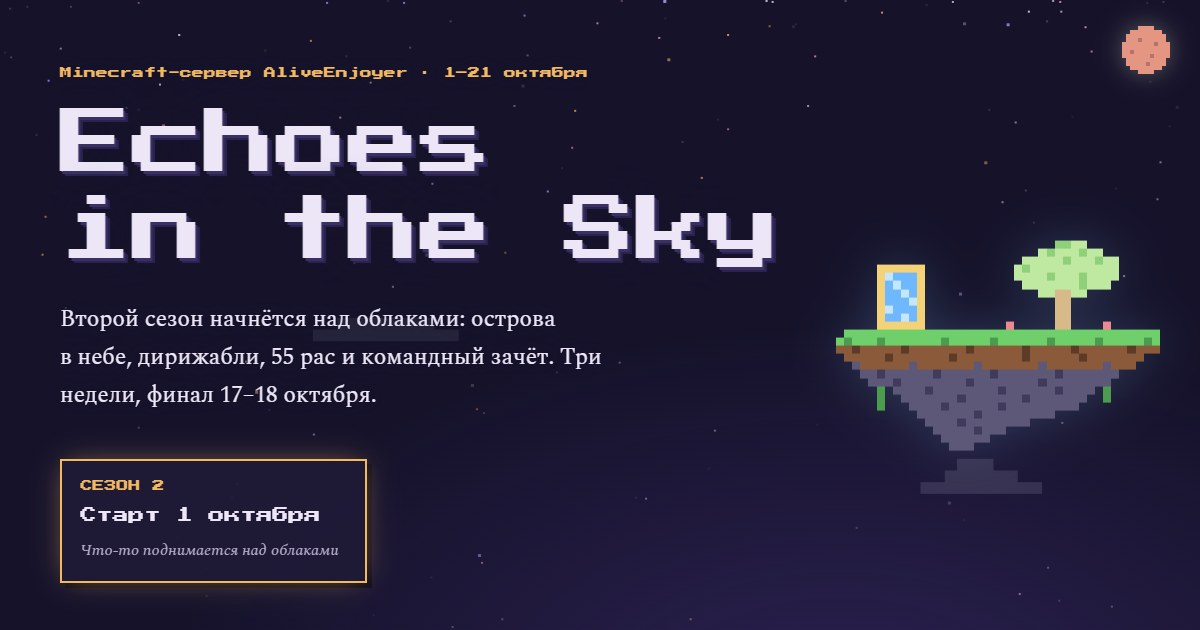
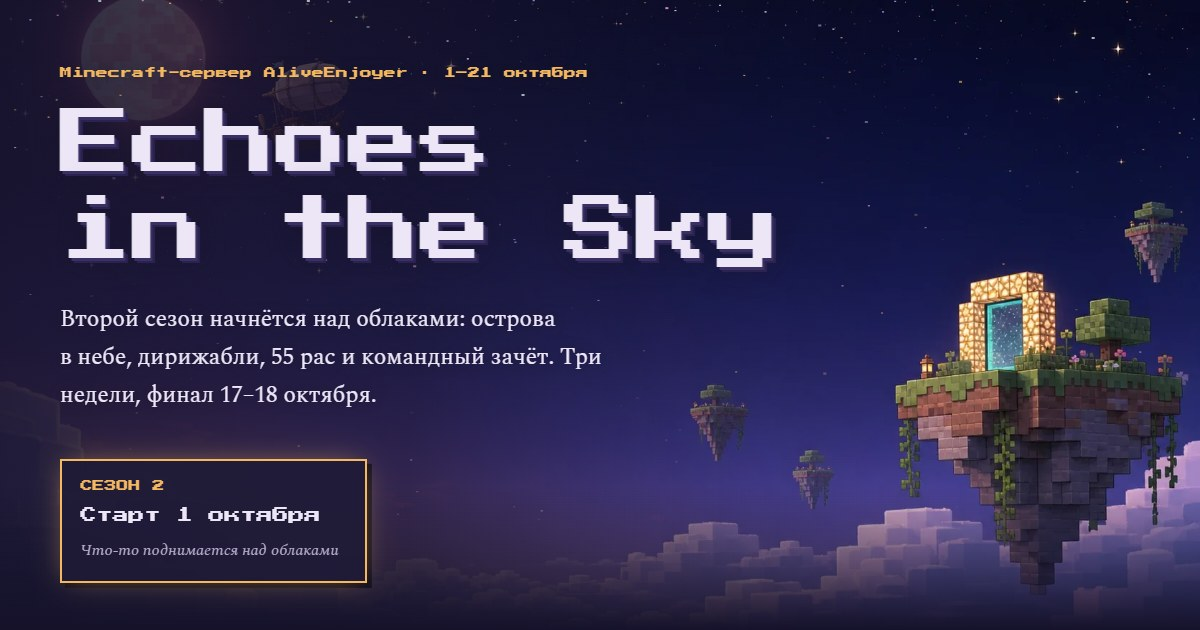
Put the season key art behind the header
The night sky with the portal island, the airship and the clouds is
the header's backdrop now, mirrored so the island stands on the right
and the text side stays dark and readable; on phones it is a band along
the bottom of the header. The drawn moon, island and canvas clouds it
replaces are gone; the stars still twinkle and the airship still flies.
The social preview is retaken with the new header.

diff --git a/style.css b/style.css
@@ -46,9 +46,19 @@ p { margin: 0 0 1rem; }
   position: relative;
   overflow: hidden;
   padding: clamp(4rem, 12vh, 9rem) 0 0;
+  /* the season 2 key art (mirrored so the portal island stands on the right); the text side is darkened */
   background:
-    radial-gradient(60rem 34rem at 70% 78%, rgba(83, 60, 150, .35), transparent 70%),
+    linear-gradient(90deg, rgba(21, 18, 42, .9) 0%, rgba(21, 18, 42, .72) 34%, rgba(21, 18, 42, .2) 62%, rgba(21, 18, 42, 0) 78%),
+    url(img/s2-sky.webp) right bottom / cover no-repeat,
     var(--void);
+}
+/* on a phone the art is a band along the bottom of the header, its top edge fading into the night */
+@media (max-width: 760px) {
+  .hero { background:
+    linear-gradient(180deg, rgba(21, 18, 42, 0) 55%, rgba(21, 18, 42, .45) 100%),
+    linear-gradient(180deg, var(--void) 0%, rgba(21, 18, 42, 0) 35%) 0 100% / 100% 48% no-repeat,
+    url(img/s2-sky-960.webp) 86% 100% / auto 48% no-repeat,
+    var(--void); }
 }
 .ceiling { position: absolute; inset: 0; width: 100%; height: 100%; pointer-events: none; }
 .hero-text {
@@ -307,15 +317,11 @@ footer p { margin: 0 0 .4rem; }
 @media (max-width: 420px) { .s2-count b { font-size: 16px; } .s2-count i { margin-right: .4rem; } }
 
 .s2-sky { position: absolute; inset: 0; pointer-events: none; overflow: hidden; }
-.s2-moon { position: absolute; right: 2.5%; top: 1.6rem; width: 48px; height: 48px; filter: drop-shadow(0 0 12px rgba(232, 224, 200, .35)); }
-.s2-moon svg { position: absolute; inset: 0; width: 100%; height: 100%; }
-.s2-moon-red { opacity: 0; animation: s2-blood 24s steps(1, end) infinite 6s; }
-@keyframes s2-blood { 0%, 72% { opacity: 0; } 73%, 78% { opacity: .55; } 79%, 92% { opacity: 1; } 93%, 100% { opacity: 0; } }
 .s2-ship { position: absolute; top: 18%; left: 0; width: 144px; height: 72px; opacity: .8; animation: s2-drift 95s linear infinite 2s; transform: translateX(-180px); }
 .s2-ship svg { width: 100%; height: 100%; display: block; animation: s2-bob 6s ease-in-out infinite; }
 @keyframes s2-drift { from { transform: translateX(-180px); } to { transform: translateX(calc(100vw + 40px)); } }
 @keyframes s2-bob { 50% { transform: translateY(8px); } }
-@media (max-width: 760px) { .s2-ship { width: 96px; height: 48px; top: 11%; } .s2-moon { width: 32px; height: 32px; top: 1rem; right: 1.2rem; } }
+@media (max-width: 760px) { .s2-ship { width: 96px; height: 48px; top: 11%; } }
 
 .s2 h2 { margin-bottom: 1rem; }
 .s2-glitch { position: relative; display: inline-block; }
@@ -346,7 +352,7 @@ footer p { margin: 0 0 .4rem; }
 .s2 .actions { margin-top: 1.8rem; }
 .s2-note { color: var(--mist); font-size: .95rem; }
 @media (prefers-reduced-motion: reduce) {
-  .s2-cursor, .s2-moon-red, .s2-ship, .s2-ship svg, .s2-glitch::before, .s2-glitch::after { animation: none; }
+  .s2-cursor, .s2-ship, .s2-ship svg, .s2-glitch::before, .s2-glitch::after { animation: none; }
   .s2-ship { display: none; }
 }
 
@@ -358,9 +364,7 @@ footer p { margin: 0 0 .4rem; }
 .s2-count .s2-when { font-style: normal; font-size: 12px; line-height: 1.6; color: var(--pearl); }
 .s2-lead { color: var(--mist); max-width: var(--text); }
 .s2-h3 { font-family: var(--pixel); font-weight: 400; font-size: 16px; line-height: 1.5; color: var(--lantern); margin: 3rem 0 .8rem; }
-.s2-moon, .s2-ship { pointer-events: auto; cursor: pointer; }
-.s2-moon.blood .s2-moon-red { opacity: 1; animation: none; }
-.s2-moon.blood { filter: drop-shadow(0 0 16px rgba(224, 90, 74, .7)); }
+.s2-ship { pointer-events: auto; cursor: pointer; }
 .s2-toast { position: fixed; left: 50%; bottom: 1.5rem; transform: translateX(-50%); z-index: 30; max-width: calc(100vw - 2rem); padding: .85rem 1.1rem;
   background: var(--deep); border: 2px solid var(--lantern); color: var(--pearl); font-size: 1rem; line-height: 1.45; text-align: center; pointer-events: none;
   box-shadow: .3rem .3rem 0 #0d0b1b; }
@@ -553,13 +557,6 @@ footer p { margin: 0 0 .4rem; }
 .hero .s2-card { margin-top: 1.8rem; }
 @media (min-width: 760px) { .hero .s2-count b { font-size: 32px; } .hero .s2-count i { font-size: 12px; } }
 .hero-s1 { margin: -.2rem 0 1.6rem; }
-/* the floating island with the glowing frame from file 01 */
-.s2-island { position: absolute; right: max(2%, calc((100vw - 1480px) / 2)); top: 27%; width: clamp(180px, 29vw, 430px); aspect-ratio: 43 / 26;
-  pointer-events: auto; cursor: pointer; filter: drop-shadow(0 0 24px rgba(143, 211, 255, .2)); animation: s2-float 7s ease-in-out infinite; }
-.s2-island svg { width: 100%; height: 100%; display: block; }
-@keyframes s2-float { 50% { transform: translateY(-12px); } }
-@media (max-width: 999px) { .s2-island { top: 1rem; right: 4.4rem; width: 124px; } }
-@media (prefers-reduced-motion: reduce) { .s2-island { animation: none; } }
 .hero .btn-quiet, .hero .btn-quiet:hover { background: rgba(21, 18, 42, .9); }
 .features.four { grid-template-columns: repeat(auto-fit, minmax(15.5rem, 1fr)); gap: 1.8rem 2.4rem; }
 .h3 { font-family: var(--pixel); font-weight: 400; font-size: 16px; line-height: 1.5; color: var(--lantern); margin: 3.4rem 0 .8rem; }

diff --git a/teaser.js b/teaser.js
@@ -58,7 +58,7 @@
 
   // The countdown to 1 October lives in a small inline script in index.html, so it ticks even if this file is late.
 
-  /* ---------- sky: an airship with a logbook, and a moon that turns red if you insist ---------- */
+  /* ---------- sky: an airship with a logbook drifts over the key art ---------- */
   const ship = $(".s2-ship");
   if (ship) {
     ship.appendChild(sprite([
@@ -72,38 +72,6 @@
                  "День 7: топливо на исходе. Садимся 1 октября."];
     let entry = 0;
     ship.addEventListener("click", () => toast(log[entry++ % log.length]));
-  }
-  const moonRows = ["....aaaa....", "..aaaaaaaa..", ".aaaaaaaaaa.", ".aaabaaaaaa.", "aaaaaaaabaaa", "aaaaaaaaaaaa",
-                    "aabaaaaaaaaa", "aaaaaaabaaaa", ".aaaaaaaaaa.", ".aaaaabaaaa.", "..aaaaaaaa..", "....aaaa...."];
-  const moon = $(".s2-moon");
-  if (moon) {
-    const pale = sprite(moonRows, { a: "#e8e0c8", b: "#c9c0a6" }), red = sprite(moonRows, { a: "#e05a4a", b: "#a8323a" });
-    pale.setAttribute("class", "s2-moon-pale"); red.setAttribute("class", "s2-moon-red");
-    moon.append(pale, red);
-    let clicks = 0;
-    moon.addEventListener("click", () => {
-      if (++clicks < 3) return;
-      moon.classList.add("blood");
-      toast("Красная луна показалась раньше времени. Она придёт в первую же неделю.");
-    });
-  }
-
-  // the floating island with the glowing frame from file 01: a glowstone portal, a pale tree and a few flowers
-  const island = $(".s2-island");
-  if (island) {
-    island.appendChild(sprite([
-      "............................LLll...........", "..........................lLlllLll.........", "........................lllllLlllLll.......",
-      "......yyyyyy...........lLlllllllllll.......", "......yPpppy...........llllLlllLllll.......", "......ypPppy............lllllllLlll........",
-      "......yppPpy..............llwwll...........", "......ypppPy................ww.............", "......yPpppy................ww.............",
-      "......yppPpy................ww.............", "......yyyyyy..........f.....ww....f........", "..ggggggggggggggggggggggggggggggggggggggg..",
-      ".gGgggGgggggggGgggggGggggggGgggggGgggggGg..", ".ddDdddddDdddddddDddddddDdddddDddddddDddd..", "..dddddDdddddddDddddddddDddddddDddddddd....",
-      "...sddddddsdddddddsdddddddsdddddddsddd.....", "....ssSssssssSssssssSsssssssSsssssss.......", ".....sssSssssssssSssssssssSssssssss........",
-      "......v.ssssSssssssssSssssssSssss.v........", "......v..sssssssSsssssssSsssssss..v........", "......v...ssssSssssssSsssssssss............",
-      "...........sssssssSsssssssss...............", "............ssssSssssssss..................", ".............sssssSsss.....................",
-      "..............ssssss.......................", "...............sss.........................",
-    ], { g: "#6fcf6a", G: "#4c9c50", d: "#8a5a3a", D: "#5e3b27", s: "#5d5878", S: "#403b5c", y: "#f4d27a", p: "#6fb8ff", P: "#c4e6ff",
-         w: "#d8b98a", l: "#bfe8a0", L: "#8fd07a", v: "#4c9c50", f: "#ee8793" }));
-    island.addEventListener("click", () => toast("Рамка из светокамня. Налей в неё воды — и узнаешь, куда она ведёт."));
   }
 
   /* ---------- decrypting text: shared by the files and the boss names ---------- */

diff --git a/app.js b/app.js
@@ -2,21 +2,12 @@
   const API = "https://173-249-26-11.sslip.io:8444/api";
   const reduceMotion = window.matchMedia("(prefers-reduced-motion: reduce)").matches;
 
-  /* ---------- the sky over the hero: twinkling stars and blocky clouds drifting by ---------- */
+  /* ---------- the sky over the hero: stars twinkling over the season key art ---------- */
   const canvas = document.querySelector(".ceiling");
   if (canvas) {
     const ctx = canvas.getContext("2d");
     const colors = ["#ddf5f0", "#f4b860", "#f7a8c8", "#b9a6ff", "#ddf5f0"];
-    let dots = [], clouds = [], w = 0, h = 0, running = true, raf = 0, last = 0;
-    // a cloud is a few stacked slabs of square cells, the way Minecraft draws them; lower slabs are wider
-    const cloud = (x) => {
-      const cell = w < 700 ? 8 : 12, cols = 6 + ((Math.random() * 10) | 0), rows = 2 + ((Math.random() * 2) | 0);
-      const slabs = Array.from({ length: rows }, (_, r) => {
-        const inset = r === rows - 1 ? 0 : 1 + ((Math.random() * 2) | 0) * (rows - 1 - r);
-        return [inset, Math.max(3, cols - inset * 2 - ((Math.random() * 2) | 0))];
-      });
-      return { x, y: h * (0.3 + Math.random() * 0.65), cell, cols, slabs, v: 5 + Math.random() * 9, a: 0.07 + Math.random() * 0.1 };
-    };
+    let dots = [], w = 0, h = 0, running = true, raf = 0;
     const seed = () => {
       const dpr = Math.min(window.devicePixelRatio || 1, 2);
       w = canvas.clientWidth; h = canvas.clientHeight;
@@ -28,11 +19,8 @@
         return { x: Math.random() * w, y, s: Math.random() < 0.15 ? 3 : 2, c: colors[(Math.random() * colors.length) | 0],
                  p: Math.random() * Math.PI * 2, v: 0.25 + Math.random() * 0.6, base: 0.25 + 0.55 * (1 - y / h) };
       });
-      clouds = Array.from({ length: Math.max(4, Math.round(w / 240)) }, () => cloud(Math.random() * (w + 300) - 250));
     };
     const draw = (t) => {
-      const dt = last ? Math.min(0.1, (t - last) / 1000) : 0;
-      last = t;
       ctx.clearRect(0, 0, w, h);
       for (const d of dots) {
         const a = reduceMotion ? d.base : d.base * (0.55 + 0.45 * Math.sin(d.p + t * 0.001 * d.v));
@@ -40,13 +28,6 @@
         ctx.fillStyle = d.c;
         ctx.fillRect(Math.round(d.x), Math.round(d.y), d.s, d.s);
       }
-      ctx.fillStyle = "#ece6f7";
-      clouds.forEach((c, i) => {
-        c.x += c.v * dt;
-        if (c.x > w + 20) { clouds[i] = cloud(-c.cols * c.cell - 20 - Math.random() * 200); return; }
-        ctx.globalAlpha = c.a;
-        c.slabs.forEach(([inset, cols], r) => ctx.fillRect(Math.round(c.x + inset * c.cell), Math.round(c.y + r * c.cell), cols * c.cell, c.cell));
-      });
       ctx.globalAlpha = 1;
       if (!reduceMotion && running) raf = requestAnimationFrame(draw);
     };

diff --git a/index.html b/index.html
@@ -17,7 +17,7 @@
 <!-- fonts load without blocking the page: if Google is slow, text shows in the fallback font and swaps later -->
 <link rel="stylesheet" href="https://fonts.googleapis.com/css2?family=Press+Start+2P&family=Spectral:ital,wght@0,400;0,600;1,400&display=swap" media="print" onload="this.media='all'">
 <noscript><link rel="stylesheet" href="https://fonts.googleapis.com/css2?family=Press+Start+2P&family=Spectral:ital,wght@0,400;0,600;1,400&display=swap"></noscript>
-<link rel="stylesheet" href="style.css?v=20260925c">
+<link rel="stylesheet" href="style.css?v=20260925d">
 <script>document.documentElement.classList.add("js")</script>
 </head>
 <body>
@@ -25,7 +25,7 @@
 
 <header class="hero">
   <canvas class="ceiling" aria-hidden="true"></canvas>
-  <div class="s2-sky" aria-hidden="true"><span class="s2-moon"></span><span class="s2-island"></span><span class="s2-ship"></span></div>
+  <div class="s2-sky" aria-hidden="true"><span class="s2-ship"></span></div>
   <div class="hero-text">
     <p class="kicker hero-kicker">Сезон 2 · 1–21 октября · Minecraft-сервер AliveEnjoyer</p>
     <h1>Echoes in&nbsp;the&nbsp;Sky</h1>
@@ -609,7 +609,7 @@
   <img alt="">
 </dialog>
 
-<script src="app.js?v=20260925a" defer></script>
-<script src="teaser.js?v=20260925b" defer></script>
+<script src="app.js?v=20260925b" defer></script>
+<script src="teaser.js?v=20260925c" defer></script>
 </body>
 </html>

diff --git a/season1.html b/season1.html
@@ -17,7 +17,7 @@
 <!-- fonts load without blocking the page: if Google is slow, text shows in the fallback font and swaps later -->
 <link rel="stylesheet" href="https://fonts.googleapis.com/css2?family=Press+Start+2P&family=Spectral:ital,wght@0,400;0,600;1,400&display=swap" media="print" onload="this.media='all'">
 <noscript><link rel="stylesheet" href="https://fonts.googleapis.com/css2?family=Press+Start+2P&family=Spectral:ital,wght@0,400;0,600;1,400&display=swap"></noscript>
-<link rel="stylesheet" href="style.css?v=20260925c">
+<link rel="stylesheet" href="style.css?v=20260925d">
 <link rel="stylesheet" href="season1.css?v=20260924a">
 <script>document.documentElement.classList.add("js")</script>
 </head>

diff --git a/season2-map.html b/season2-map.html
@@ -17,7 +17,7 @@
 <!-- fonts load without blocking the page: if Google is slow, text shows in the fallback font and swaps later -->
 <link rel="stylesheet" href="https://fonts.googleapis.com/css2?family=Press+Start+2P&family=Spectral:ital,wght@0,400;0,600;1,400&display=swap" media="print" onload="this.media='all'">
 <noscript><link rel="stylesheet" href="https://fonts.googleapis.com/css2?family=Press+Start+2P&family=Spectral:ital,wght@0,400;0,600;1,400&display=swap"></noscript>
-<link rel="stylesheet" href="style.css?v=20260925c">
+<link rel="stylesheet" href="style.css?v=20260925d">
 <link rel="stylesheet" href="roadmap.css?v=20260924i">
 <script>document.documentElement.classList.add("js")</script>
 </head>
